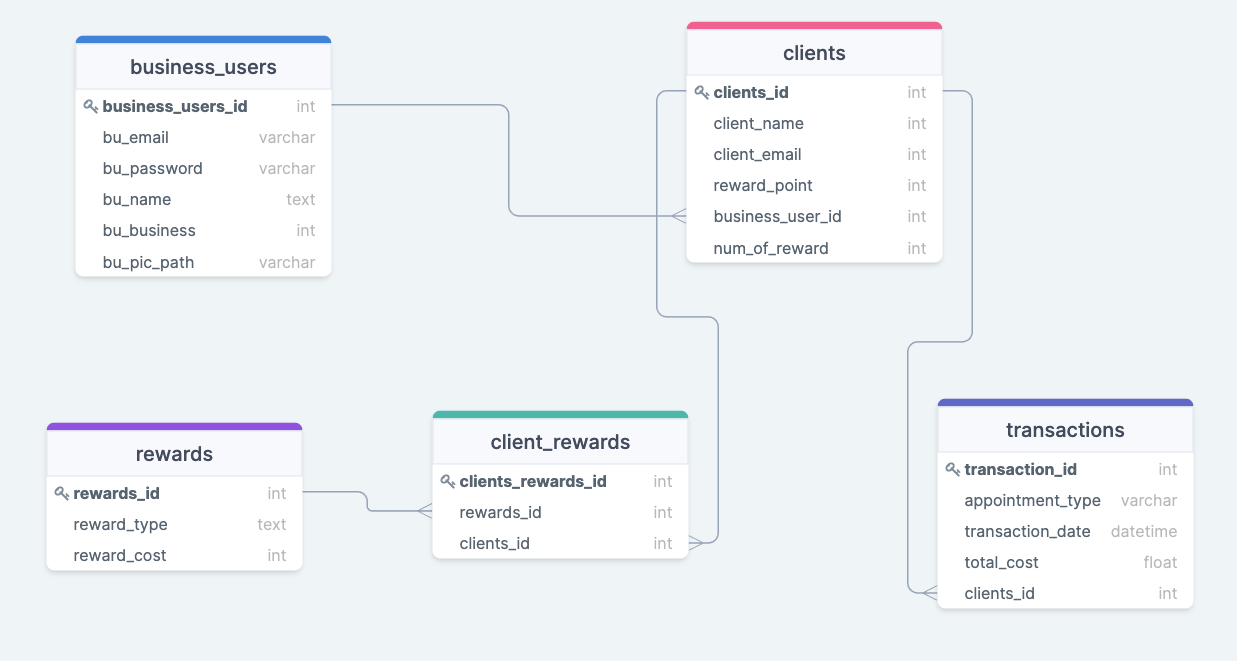
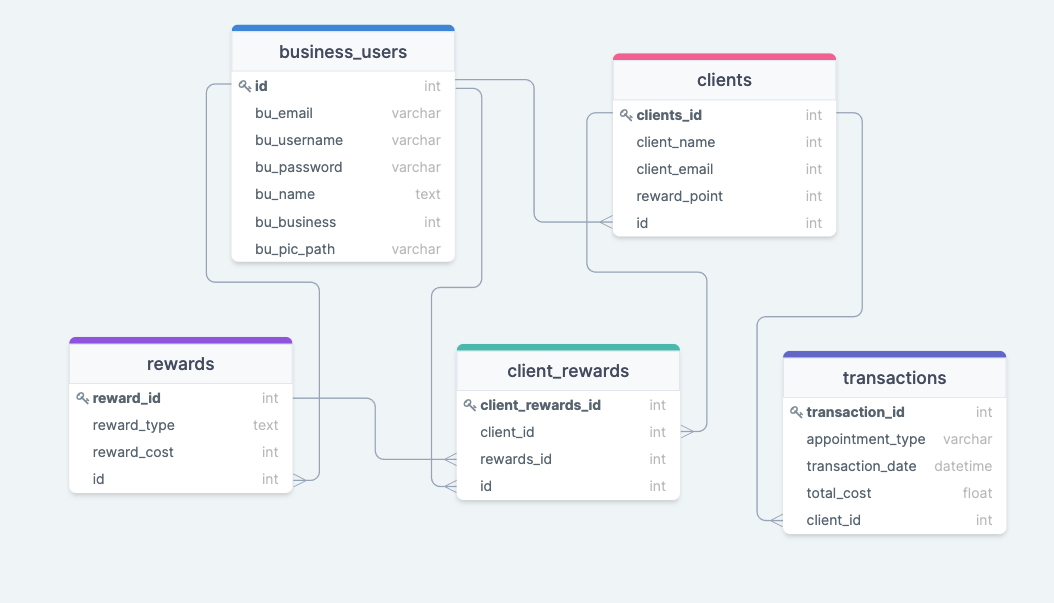
readme draft 1

diff --git a/README.md b/README.md
@@ -3,16 +3,23 @@ Glow Up is created with VScode
 
 A point based loyalty program geared towards small business owners of the spa & aesthetician community.
 
-# Introduction The GlowUp web app is the culmination of my bootcamp experience. My Hackbright capstone project, GlowUp reinforced all information that the bootcamp has stuffed into my brain within the bootcamp's limited time frame.
+# Introduction 
+The GlowUp web app is the culmination of my bootcamp experience. My Hackbright capstone project, GlowUp reinforced all information that the bootcamp has stuffed into my brain within the bootcamp's limited time frame.
 
 ## Table of Contents
 
-## General Info This project is a customer loyalty rewards programs, tallying up customer points to redeem later on for rewards promoted by the business user.
+## General Info 
+This project is a customer loyalty rewards programs, tallying up customer points to redeem later on for rewards promoted by the business user.
 
-## Technologies Project is created with: Python, JavaScript, AJAX, JSON, HTML, CSS Flask, jQuery, Bootstrap, Jinja, bcrypt, WTForms PostgreSQL, SQLAlchemy
+## Technologies Project is created with: 
+Python, JavaScript, AJAX, JSON, HTML, CSS Flask, jQuery, Bootstrap, Jinja, bcrypt, WTForms PostgreSQL, SQLAlchemy
 
-## Setup Not to sure how to run this project for you, besides cloning the repo. (Will return to this later when I get more experience as a coder--apologies in advance)
+## Setup 
+Not to sure how to run this project for you, besides cloning the repo. (Will return to this later when I get more experience as a coder--apologies in advance)
 
-## Data Model baby's first data model
+## Data Model 
+baby's first data model
+![data_model_loyalty](/static/img/data_model.png)
 
-# Project Status Still a work in progress...
+# Project Status 
+Still a work in progress...
